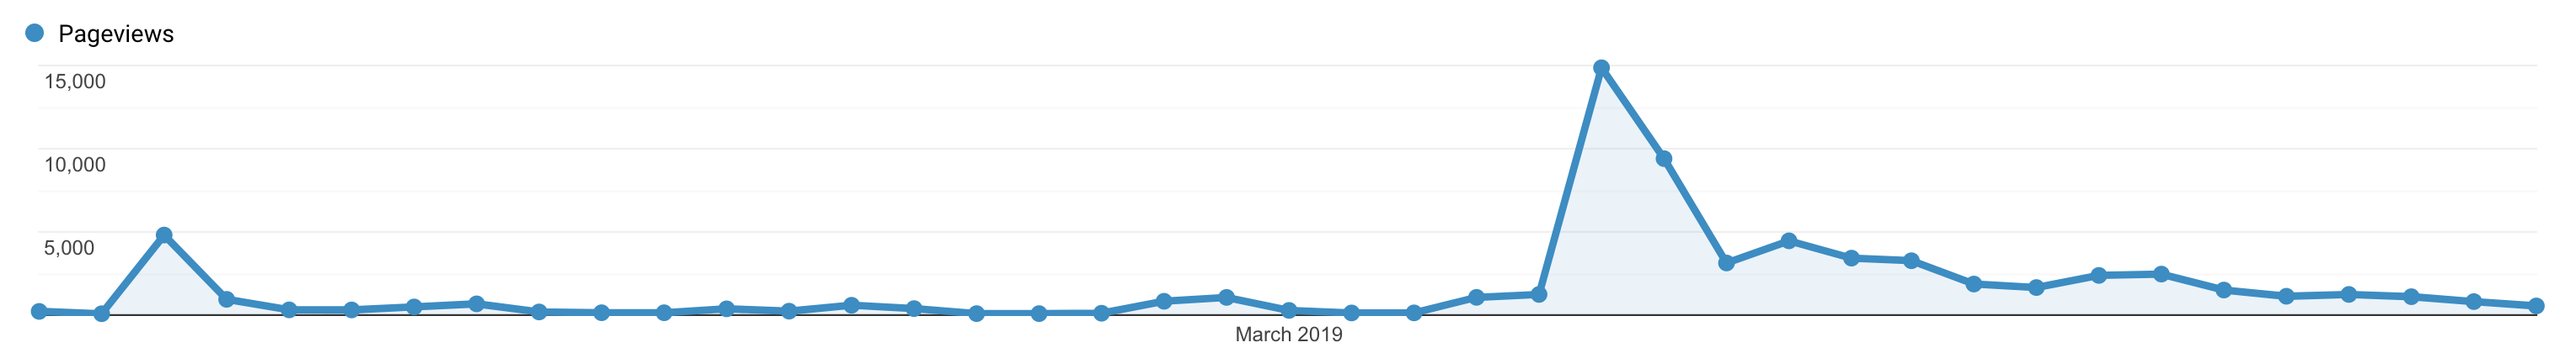
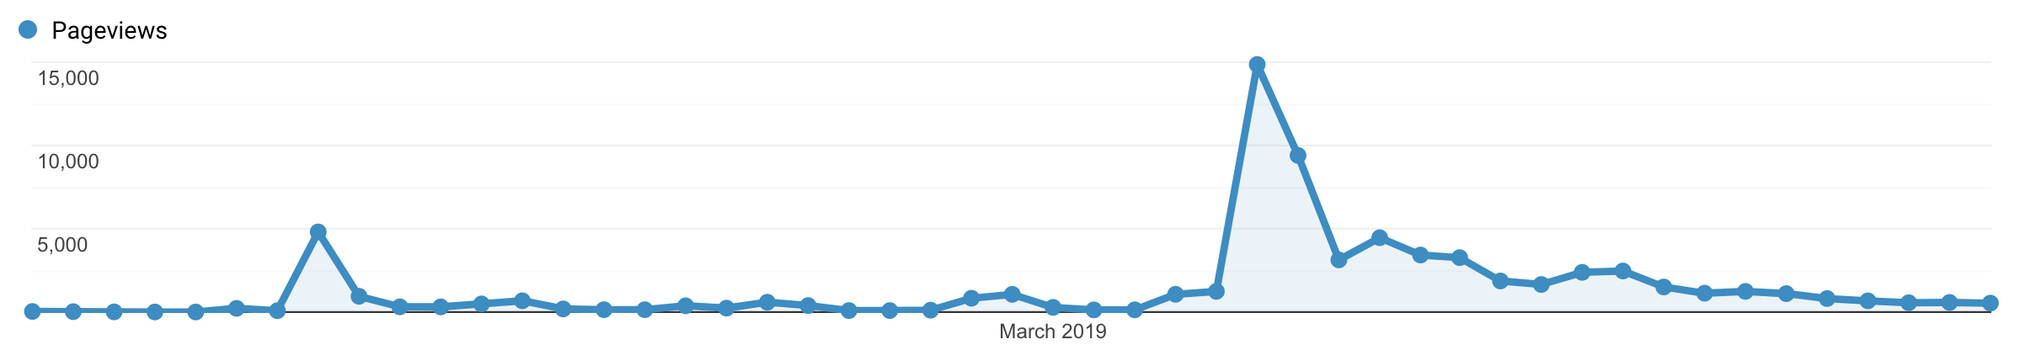
Final Edits for First 50 days post

diff --git a/content/posts/2019-03-25-first-50-days-of-blogging.md b/content/posts/2019-03-25-first-50-days-of-blogging.md
@@ -15,12 +15,12 @@ next: "/blog/intro-to-neural-networks/"
 
 ## Why?
 
-I started this blog at the beginning of last month (February 2019) because:
+I started this blog at the beginning of last month (February 2019) because
 
 - I wanted to become a better writer.
 - I felt like I had some interesting/useful things to say.
 - I'd <a href="/about/" target="_blank">sold both of my main side projects</a> and wanted a new challenge.
-- I didn't like [the old victorzhou.com](https://github.com/vzhou842/victorzhou.com-old) and had been itching to rewrite it for a while.
+- I didn't like [the old victorzhou.com](https://github.com/vzhou842/victorzhou.com-old) and had been itching to rewrite it for a while (this new site is also open source on [Github](https://github.com/vzhou842/victorzhou.com)).
 - I wanted to learn more about and get firsthand experience with [SEO](https://en.wikipedia.org/wiki/Search_engine_optimization).
 
 ## The Numbers
@@ -37,18 +37,18 @@ Here's a graph of my blog's pageviews since its beginning:
 
 ![](/media/first-50-days-post/pageviews.png)
 
-The two spikes are both because of Hacker New posts: first from [this one on my Javascript bug post](https://news.ycombinator.com/item?id=19135552) and then [this one on my Neural Networks post](https://news.ycombinator.com/item?id=19320217).
+The two spikes are both from my posts reaching the front page of Hacker News: first [my Javascript bug post](https://news.ycombinator.com/item?id=19135552) and then [my Neural Networks post](https://news.ycombinator.com/item?id=19320217).
 
-Here are my 6 blog posts, ranked by number of pageviews:
+Here are all 6 blog posts ranked by number of pageviews:
 
 | Page | Pageviews |
 | ---- | --------- |
-| <a class="no-underline" href="/blog/intro-to-neural-networks/" target="_blank">/blog/intro-to-neural-networks/</a> | 35,605 |
-| <a class="no-underline" href="/blog/a-javascript-bug-i-had-once/" target="_blank">/blog/a-javascript-bug-i-had-once/</a> | ? |
-| <a class="no-underline" href="/blog/properly-size-images/" target="_blank">/blog/properly-size-images/</a> | ? |
-| <a class="no-underline" href="/blog/how-i-became-a-programmer/" target="_blank">/blog/how-i-became-a-programmer/</a> | ? |
-| <a class="no-underline" href="/blog/why-you-should-use-webpack/" target="_blank">/blog/why-you-should-use-webpack/</a> | ? |
-| <a class="no-underline" href="/blog/better-profanity-detection-with-scikit-learn/" target="_blank">/blog/better-profanity-detection-with-scikit-learn/</a> | ? |
+| <a class="no-underline" href="/blog/intro-to-neural-networks/" target="_blank">/blog/intro-to-neural-networks/</a> | 36,453 |
+| <a class="no-underline" href="/blog/a-javascript-bug-i-had-once/" target="_blank">/blog/a-javascript-bug-i-had-once/</a> | 6,675 |
+| <a class="no-underline" href="/blog/properly-size-images/" target="_blank">/blog/properly-size-images/</a> | 3,721 |
+| <a class="no-underline" href="/blog/how-i-became-a-programmer/" target="_blank">/blog/how-i-became-a-programmer/</a> | 2,122 |
+| <a class="no-underline" href="/blog/why-you-should-use-webpack/" target="_blank">/blog/why-you-should-use-webpack/</a> | 1,753 |
+| <a class="no-underline" href="/blog/better-profanity-detection-with-scikit-learn/" target="_blank">/blog/better-profanity-detection-with-scikit-learn/</a> | 1,331 |
 
 ## Goals for Year One
 
